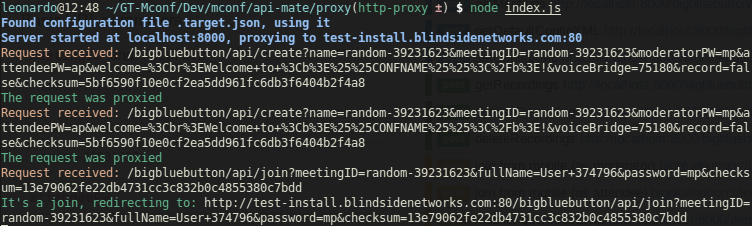
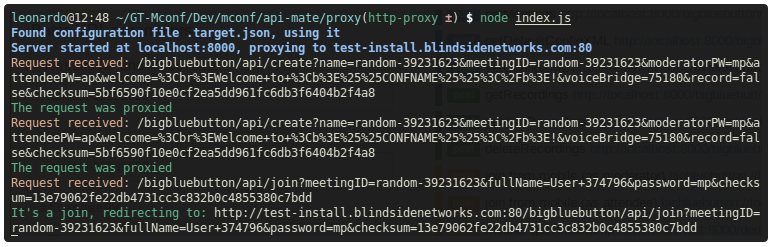
Update proxy output image and fix wrong reference to it
refs #1111

diff --git a/proxy/README.md b/proxy/README.md
@@ -1,4 +1,6 @@
-# Usage
+# API Mate - HTTP Proxy
+
+## Usage
 
 First, install [node.js](nodejs.org). You can use the latest version.
 
@@ -28,4 +30,4 @@ As you make requests from the API Mate to your proxy, the proxy will print infor
 You will notice that the only request that is not proxied is `join`. In this case the user is redirected directly to
 the web conference server.
 
-![Example of output given by the proxy](https://raw.github.com/mconf/api-mate/http-proxy/proxy/img/api-mate-server.png "Example of output given by the proxy")
+![Example of output given by the proxy](https://raw.github.com/mconf/api-mate/http-proxy/proxy/img/proxy-output.png "Example of output given by the proxy")
